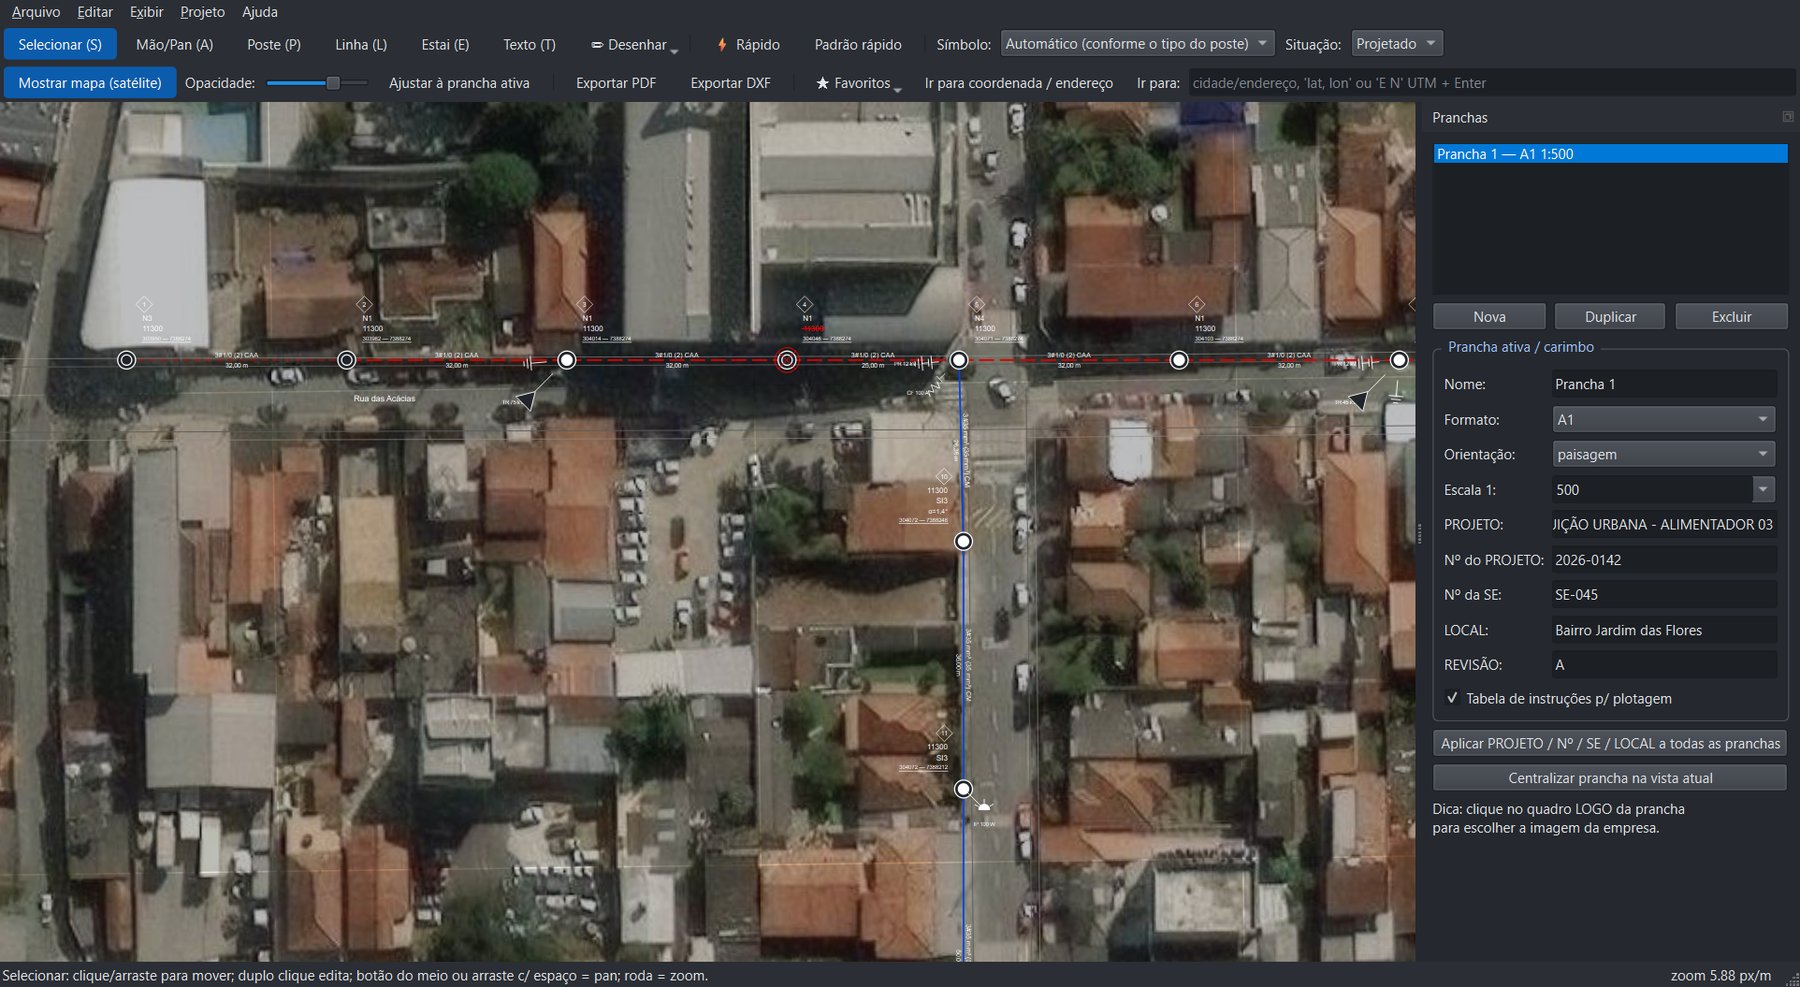
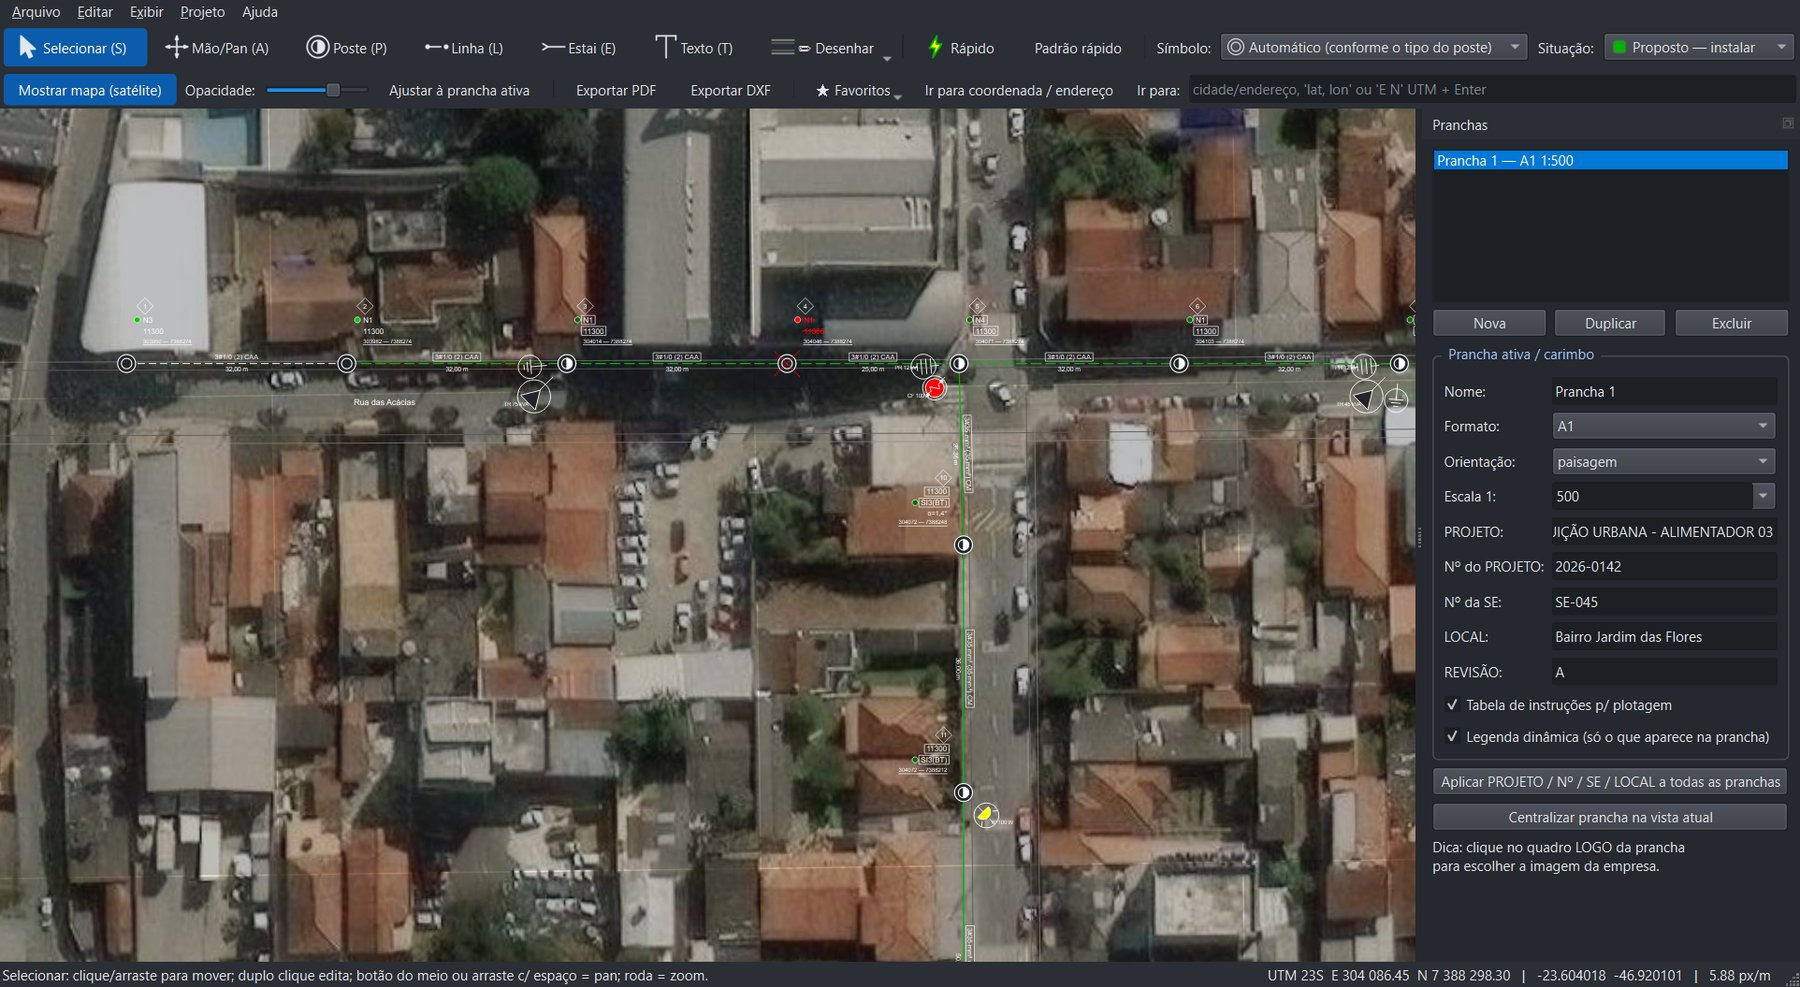
Atualiza site: simbologia IT-EO-008, legenda dinamica, ferrovia
- Novos prints com a simbologia da norma (cores por status, anotacoes, equipamentos)
- Textos dos recursos atualizados

diff --git a/index.html b/index.html
@@ -105,12 +105,12 @@
     <p class="lead">Do lançamento dos postes à prancha plotada, sem trocar de programa.</p>
     <div class="grid">
       <div class="card"><div class="ico">🛰</div><h3>Mapa real</h3><p>Satélite, ruas e topográfico. Ajuste a opacidade, oculte quando quiser e salve locais favoritos. Busca por endereço, lat/long ou UTM.</p></div>
-      <div class="card"><div class="ico">📍</div><h3>Postes e estruturas</h3><p>Concreto circular, duplo T, madeira e metálico. Estruturas N1–N4, HT/HTT, compactas CM/CE e transições (ex.: N3-N4), altura e esforço.</p></div>
-      <div class="card"><div class="ico">⚡</div><h3>Equipamentos</h3><p>Transformador (poste, solo, chave deslocada), para-raios, aterramento, chave fusível, chave faca, religador, capacitor, sensor, TME, luminária.</p></div>
+      <div class="card"><div class="ico">📍</div><h3>Postes e estruturas</h3><p>Simbologia da norma IT-EO-008 (Cemig/Electric Office): concreto circular, duplo T, madeira, aço, compósito e IP, com cores por status (existente, instalar, substituir, retirar). Estruturas N1–N4, HT/HTT, compactas CM/CE e transições (ex.: N3-N4).</p></div>
+      <div class="card"><div class="ico">⚡</div><h3>Equipamentos</h3><p>Transformador (rede, dedicado, IP, serviços auxiliares, chave deslocada), chave fusível e faca (aberta/fechada), religador, seccionalizador, para-raios, capacitor, regulador, indicador de defeito, luminária.</p></div>
       <div class="card"><div class="ico">〰</div><h3>Vãos e cabos</h3><p>Escolha condutores, bitola e cabo: <code class="k">3#1/0 (2) CAA</code>. Distância automática pelo mapa e ângulo de mudança de direção calculado.</p></div>
       <div class="card"><div class="ico">🧭</div><h3>UTM automático</h3><p>Cada poste recebe sua coordenada UTM. Exporte o quadro de postes em CSV.</p></div>
-      <div class="card"><div class="ico">🏘</div><h3>Ruas, prédios e árvores</h3><p>Desenhe ruas com calçadas, edificações, polilinhas, círculos, arcos, retângulos, árvores e textos.</p></div>
-      <div class="card"><div class="ico">🖨</div><h3>Pranchas profissionais</h3><p>Carimbo com logo da empresa, tabela de instruções para plotagem, várias pranchas na mesma tela e exportação PDF/DXF em A1, A2, A3 e A4.</p></div>
+      <div class="card"><div class="ico">🏘</div><h3>Ruas, prédios e árvores</h3><p>Desenhe ruas com calçadas, ferrovia (trilhos), edificações, polilinhas, círculos, arcos, árvores, textos e símbolos de desenho (obstáculo, porteira, casa...).</p></div>
+      <div class="card"><div class="ico">🖨</div><h3>Pranchas profissionais</h3><p>Carimbo com logo, tabela de plotagem, <b>legenda dinâmica</b> (só o que aparece na prancha), várias pranchas na mesma tela e exportação PDF/DXF em A1 a A4.</p></div>
       <div class="card"><div class="ico">🚀</div><h3>Produtividade</h3><p>Modo Rápido com padrão configurável, textos arrastáveis, atalhos de teclado, desfazer/refazer e tema escuro estilo CAD.</p></div>
     </div>
   </div>
